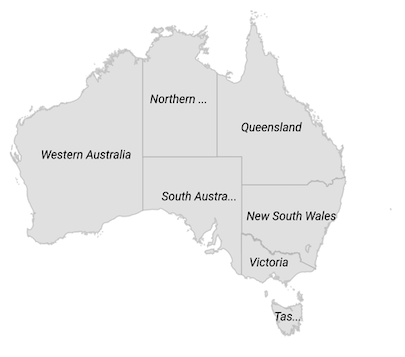
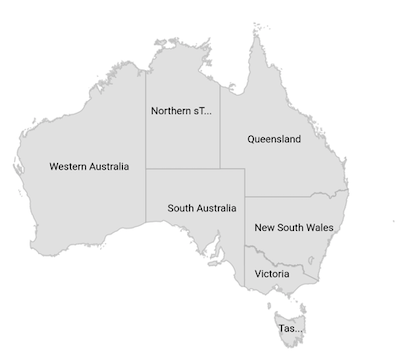
FLUT-1282-[feature][flutter]: added theme data property in data labels

diff --git a/Flutter/maps/data-labels.md b/Flutter/maps/data-labels.md
@@ -156,7 +156,6 @@ Widget build(BuildContext context) {
                   showDataLabels: true,
                   dataLabelSettings: MapDataLabelSettings(
                     overflowMode: MapLabelOverflowMode.trim,
-                    textStyle: TextStyle(fontStyle: FontStyle.italic, color: Colors.black),
                   ),
                 ),
               ],
@@ -178,3 +177,149 @@ class Model {
 {% endtabs %}
 
 ![Data labels trim support](images/data-labels/data-labels-overflow-mode.png)
+
+## Appearance customization
+
+You can customize the data labels using the `MapDataLabelSettings.textStyle` property.
+
+{% tabs %}
+{% highlight Dart %}
+
+List<Model> data;
+
+@override
+void initState() {
+    data = <Model>[
+      Model('New South Wales', 'New South Wales'),
+      Model('Queensland', 'Queensland'),
+      Model('Northern Territory', 'Northern sTerritory'),
+      Model('Victoria', 'Victoria'),
+      Model('South Australia', 'South Australia'),
+      Model('Western Australia', 'Western Australia'),
+      Model('Tasmania', 'Tasmania'),
+    ];
+    super.initState();
+}
+
+@override
+Widget build(BuildContext context) {
+    return Scaffold(
+      body: Center(
+        child: Container(
+          height: 350,
+          child: Padding(
+            padding: EdgeInsets.only(left: 15, right: 15),
+            child: SfMaps(
+              layers: [
+                MapShapeLayer(
+                  delegate: MapShapeLayerDelegate(
+                    shapeFile: 'assets/australia.json',
+                    shapeDataField: 'STATE_NAME',
+                    dataCount: data.length,
+                    primaryValueMapper: (int index) => data[index].state,
+                    dataLabelMapper: (int index) => data[index].dataLabel,
+                  ),
+                  showDataLabels: true,
+                  dataLabelSettings: MapDataLabelSettings(
+                    textStyle: const TextStyle(
+                        color: Colors.red,
+                        fontSize: 12,
+                        fontWeight: FontWeight.bold,
+                        fontStyle: FontStyle.italic,
+                        fontFamily: 'Times'
+                    ),
+                  ),
+                ),
+              ],
+            ),
+          ),
+        ),
+      ),
+   );
+}
+
+class Model {
+  Model(this.state, this.dataLabel);
+
+  String state;
+  String dataLabel;
+}
+
+{% endhighlight %}
+{% endtabs %}
+
+<b>Using SfMapsTheme</b>
+
+You can also customize the data labels using the `SfMapsThemeData.dataLabelTextStyle` property.
+
+N> You must import the `theme.dart` library from the [`Core`](https://pub.dev/packages/syncfusion_flutter_core) package to use [`SfMapsTheme`](https://pub.dev/documentation/syncfusion_flutter_core/latest/theme/SfMapsTheme-class.html).
+
+{% tabs %}
+{% highlight Dart %}
+
+List<Model> data;
+
+@override
+void initState() {
+    data = <Model>[
+      Model('New South Wales', 'New South Wales'),
+      Model('Queensland', 'Queensland'),
+      Model('Northern Territory', 'Northern sTerritory'),
+      Model('Victoria', 'Victoria'),
+      Model('South Australia', 'South Australia'),
+      Model('Western Australia', 'Western Australia'),
+      Model('Tasmania', 'Tasmania'),
+    ];
+    super.initState();
+}
+
+@override
+Widget build(BuildContext context) {
+    return Scaffold(
+      body: Center(
+        child: Container(
+          height: 350,
+          child: Padding(
+            padding: EdgeInsets.only(left: 15, right: 15),
+            child: SfMapsTheme(
+              data: SfMapsThemeData(
+                dataLabelTextStyle: TextStyle(
+                    color: Colors.red,
+                    fontSize: 12,
+                    fontWeight: FontWeight.bold,
+                    fontStyle: FontStyle.italic,
+                    fontFamily: 'Times'
+                ),
+              ),
+              child: SfMaps(
+                layers: [
+                  MapShapeLayer(
+                    delegate: MapShapeLayerDelegate(
+                      shapeFile: 'assets/australia.json',
+                      shapeDataField: 'STATE_NAME',
+                      dataCount: data.length,
+                      primaryValueMapper: (int index) => data[index].state,
+                      dataLabelMapper: (int index) => data[index].dataLabel,
+                    ),
+                    showDataLabels: true,
+                  ),
+                ],
+              ),
+            ),
+          ),
+        ),
+      ),
+   );
+}
+
+class Model {
+   Model(this.state, this.dataLabel);
+
+   String state;
+   String dataLabel;
+}
+
+{% endhighlight %}
+{% endtabs %}
+
+![Data labels customization](images/data-labels/data-labels-appearance-customization.png)
